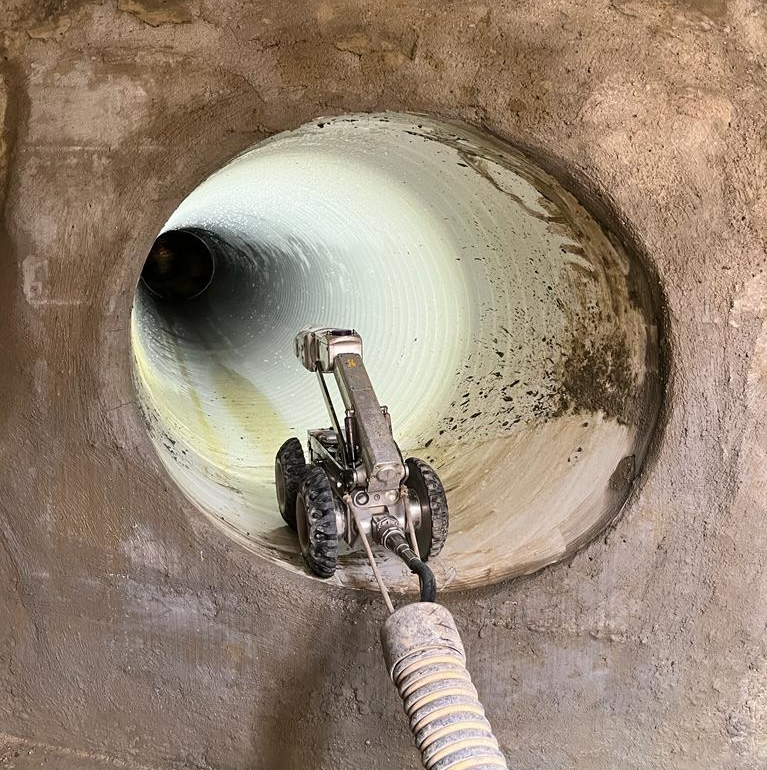
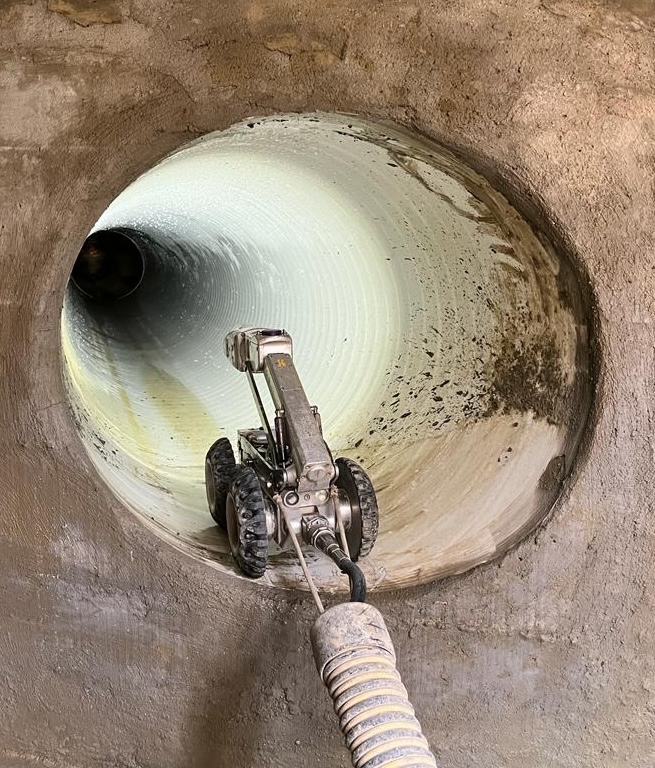
comentarios sept 3

diff --git a/templates/servicios/limpieza_redes.html b/templates/servicios/limpieza_redes.html
@@ -5,15 +5,15 @@
 {% block content %}
     <!-- Header section End -->
     <!-- main section End -->
-        <div class="inspection" style="background-image: url('static/img/general-limpiezaredes.png')">
+        <div class="inspection" style="background-image: url('static/img/general-limpiezaredes4.jpg')">
             <div class="container">
                 <div class="row">
                     <div class="col-md-7" style="padding-left: 10%;" id="limpieza-banner-text">
                         <div class="line" style="background: #2e3094;"></div>
-                        <h1><span style="color: #000;">LIMPIEZA DE TUBERÍAS </span><span style="color: #000;">MUNICIPALES, INDUSTRIALES Y COMERCIALES</span></h1>
+                        <h1><span style="color: #ffffff;">LIMPIEZA DE TUBERÍAS </span><span style="color: #ffffff;">MUNICIPALES, INDUSTRIALES Y COMERCIALES</span></h1>
                         <!-- <p style="color: #000;">En PACIFIC, nos dedicamos a la limpieza e inspección de redes subterráneas, utilizando tecnología avanzada y un equipo altamente calificado. Con más de 15 años de experiencia, ofrecemos servicios especializados para redes de alcantarillado, conexiones domiciliarias y redes internas en diversos sectores económicos, incluyendo redes públicas, industriales, comerciales y residenciales.</p> -->
                         <p></p>
-                        <a href="#see_more1" class="btn-azul" >VER MÁS</a>
+                        <a href="#see_more1" class="btn-azul" style="color: #ffffff; border-color: #ffffff;">VER MÁS</a>
                     </div>
                 </div>
             </div>
@@ -39,18 +39,17 @@
             Redes Subterráneas en Latinoamérica
         </h2>
         <p class="txt-left txt-box">
-            Nuestros servicios incluyen la limpieza y mantenimiento de redes, 
-            así como la inspección y diagnóstico mediante cámaras CCTV. 
-            Realizamos la limpieza de pozos sépticos, trampas de grasa y canales, 
-            adaptándonos a las necesidades específicas de cada proyecto. Nuestro 
-            portafolio incluye equipos de última tecnología como:
+            Realizamos la limpieza de redes,  de pozos sépticos, trampas de grasa, 
+            canales y tuberías industriales, adaptándonos a las necesidades específicas 
+            de cada proyecto. Nuestro portafolio incluye equipos de última tecnología como:
         </p>
 
         <ul class="txt-left txt-box">
             <li>Equipos combinados de presión-succión MARCA CAMEL</li>
-            <li>Cámaras de inspección CCTV</li>
-            <li>Lavado a presión con Jetter</li>
-            <li>Máquinas destaponadoras eléctricas</li>
+            <li>Equipos de limpieza Mecánica como varilladoras o rotasondas</li>
+            <li>Equipos de Lavado a Presión</li>
+            <li>Cabrestantes</li>
+            <li>Limpieza Manual de grandes colectores con personal altamente calificado</li>
         </ul>
   
 
@@ -60,20 +59,19 @@
       <div class="col-md-6 pt-8 solid-text info-box">
         
         <p class="txt-left txt-box">
-            Atendemos redes desde 2” en adelante, asegurando una limpieza 
-            eficiente y exhaustiva. Utilizamos cámaras CCTV para inspeccionar y 
-            diagnosticar el estado de las redes de alcantarillado, permitiendo una 
-            evaluación precisa de su condición y la identificación de problemas antes 
-            de que se conviertan en mayores inconvenientes.
+            Atendemos redes desde 2” en adelante, asegurando una limpieza eficiente y 
+            de gran detalle. Utilizamos equipos robotizados CCTV para inspeccionar y 
+            diagnosticar el estado de las redes de alcantarillado, permitiendo una evaluación 
+            precisa de su condición e identificación preventiva de problemas.
         </p>
         
         <p class="txt-left txt-box">
-            Ofrecemos nuestros servicios tanto al sector público como al privado, 
-            incluyendo el mantenimiento y la inspección con CCTV en diferentes municipios 
-            de Colombia, así como en industrias, comercios, construcciones y entidades 
-            de salud. Con nuestro enfoque integral y tecnología de punta, garantizamos la 
-            eficiencia y seguridad de las redes subterráneas, ayudando a prevenir 
-            problemas y optimizar el funcionamiento de los sistemas de alcantarillado.
+            Ofrecemos nuestros servicios tanto al sector público como al privado, incluyendo 
+            el mantenimiento y la inspección/diagnostico en diferentes municipios de Colombia, 
+            así como en industrias, comercios, construcciones y entidades de salud. Con nuestro 
+            enfoque integral y tecnología de punta, garantizamos la eficiencia y seguridad de las 
+            redes subterráneas, ayudando a prevenir problemas y optimizar el funcionamiento de los 
+            sistemas de alcantarillado.
         </p>  
         
         <h3 class="txt-left txt-bold">

diff --git a/templates/servicios/diseno.html b/templates/servicios/diseno.html
@@ -5,7 +5,7 @@
 {% block content %}
     <!-- Header section End -->
     <!-- main section End -->
-        <div class="inspection" style="background-image: url('static/img/general-diseno.png')">
+        <div class="inspection" style="background-image: url('static/img/general-diseno2.jpg')">
             <div class="container">
                 <div class="row">
                     <div class="col-md-7" style="padding-left: 10%;">
@@ -40,18 +40,14 @@
             De Planes De Gestión
         </h2>
         <p class="txt-left txt-box">
-            Los activos subterráneos son esenciales pero a menudo descuidados, 
-            expuestos a riesgos constantes debido a su ubicación oculta. 
-            En Pacific, comprendemos la importancia de evaluar y gestionar 
-            adecuadamente estos activos. Contamos con la tecnología de 
-            vanguardia y la experiencia necesaria para valorar y analizar 
-            las redes según estándares internacionales. Nuestros profesionales 
-            certificados por NASSCO garantizan evaluaciones precisas y 
-            recomiendan planes de acción fundamentados en análisis de riesgos 
-            rigurosos. Dedicamos tiempo y recursos a la elaboración de 
-            modelos de gestión que permiten una toma de decisiones informada 
-            y una asignación eficiente de recursos para proyectos de 
-            mantenimiento y reposición de redes.
+            Los activos subterráneos son esenciales, pero a menudo descuidados, 
+            expuestos a riesgos constantes debido a su ubicación oculta. En Pacific, 
+            comprendemos la importancia de evaluar y gestionar adecuadamente estos activos. 
+            Comprendemos la importancia de plantear soluciones y diseños para renovar, expandir 
+            y rehabilitar las los sistemas de acueducto y alcantarillado. Contamos con un 
+            experimentado equipo de consultoría y diseño que estudia cada situación y plantea 
+            adecuada y minuciosamente cada posible solución teniendo como base el menor impacto 
+            social, comercial y ambiental.
         </p>
         <h3 class="txt-left txt-bold">
           <a href="#see_more2" class="btn-small"
@@ -64,47 +60,6 @@
     
     <div class="row justy-content">
       <section id="see_more2"></section>
-      <div class="col-md-6 pt-8 solid-text info-box">
-        <h2 class="txt-left txt-bold txt-title">
-            Transformando La Información
-        </h2>
-        <h2 class="txt-left txt-title">
-             En Acción
-        </h2>
-        <h4 class="txt-left txt-box">
-            La falta de planos actualizados y la correcta alineación de 
-            infraestructuras subterráneas son desafíos comunes. En Pacific, 
-            abordamos estas deficiencias con soluciones integrales. Mediante 
-            tecnologías avanzadas y un equipo altamente capacitado, 
-            actualizamos y geo-referenciamos activos, trasladando esta 
-            información a Sistemas de Información Geográfica para una gestión 
-            efectiva. Nuestra experiencia nos permite corregir falencias y 
-            mejorar la precisión de los datos, facilitando así la toma de 
-            decisiones informadas.
-        </h4>
-        <h3 class="txt-left txt-bold txt-title">
-          <a href="#see_more3" class="btn-small"
-            >VER MÁS</a
-          >
-        </h3>
-      </div>
-      <div class="col-md-6 solid-color">
-        <img
-          src="{{ url_for('static', filename='img/diseno/diseno6.jpg') }}"
-          class="responsive-image"
-        />
-      </div>
-    </div>
-    
-    
-    <div class="row justy-content">
-      <section id="see_more3"></section>
-      <div class="col-md-6 solid-color">
-        <img
-          src="{{ url_for('static', filename='img/diseno/diseno7.jpg') }}"
-          class="responsive-image"
-        />
-      </div>
       <div class="col-md-6 pt-8 solid-text info-box">
         <h2 class="txt-left txt-bold txt-title">
             Experiencia Y Tecnología 
@@ -123,11 +78,17 @@
             subterráneos, maximizando su vida útil y optimizando recursos 
             financieros y no financieros.
         </h4>
-        <h3 class="txt-left txt-title">
-          <a href="#see_more4" class="btn-small"
+        <h3 class="txt-left txt-bold txt-title">
+          <a href="#see_more3" class="btn-small"
             >VER MÁS</a
           >
         </h3>
+      </div>
+      <div class="col-md-6 solid-color">
+        <img
+          src="{{ url_for('static', filename='img/diseno/diseno3.jpg') }}"
+          class="responsive-image"
+        />
       </div>
     </div>
   </div>
@@ -142,7 +103,7 @@
   </div>
     
     
-<section id="see_more4"></section>
+<section id="see_more3"></section>
     <!-- nuevo carrusel -->
     <div class="carousel-new">
         <img src="{{ url_for('static', filename='img/diseno/diseno1.jpg') }}" alt="Imagen 1" class="active">

diff --git a/templates/servicios/fugas.html b/templates/servicios/fugas.html
@@ -5,7 +5,7 @@
 {% block content %}
     <!-- Header section End -->
     <!-- main section End -->
-        <div class="inspection" style="background-image: url('static/img/general-fugas.png')">
+        <div class="inspection" style="background-image: url('static/img/general-fugas2.jpg')">
             <div class="container">
                 <div class="row">
                     <div class="col-md-7" style="padding-left: 10%;">
@@ -41,18 +41,13 @@
             con Tecnología de Vanguardia
         </h2>
         <p class="txt-left txt-box">
-            Empleamos métodos acústicos, visuales y ultrasónicos para identificar 
-            problemas dentro de las redes de acueducto sin necesidad de interrumpir 
-            la operación del servicio. Estos métodos nos permiten realizar 
-            inspecciones detalladas y diagnósticos precisos que garantizan una 
-            evaluación precisa de la condición de las redes y la identificación de 
-            problemas antes de que se conviertan en mayores inconvenientes.
+            Empleamos métodos acústicos, visuales y ultrasónicos para identificar fugas 
+            y fraudes dentro de las redes de acueducto sin necesidad de interrumpir la 
+            el servicio. Estos métodos nos permiten realizar inspecciones detalladas y 
+            diagnósticos precisos que garantizan una evaluación precisa de la condición 
+            de las redes y la identificación temprana de problemas.
         </p>
-        <!-- <h3 class="txt-left txt-bold">
-          <a href="{{ url_for('servicios_equipos') }}" class="btn-small"
-            >VER MÁS</a
-          >
-        </h3> -->
+        
       </div>
     </div>
     <div class="row justy-content">
@@ -61,14 +56,11 @@
             Soluciones de CCTV y Ultrasonido
         </h2>
         <p class="txt-left txt-box">
-            Utilizamos cámaras de inspección CCTV para una visualización interna 
-            detallada de las tuberías, permitiendo detectar fugas, fraudes, bloqueos, 
-            y otras condiciones adversas. Además, nuestros sistemas de escaneo óptico 
-            y ultrasonido fortalecen nuestra capacidad de inspección y análisis estructural, 
-            asegurando que todas las evaluaciones se realicen con la mayor precisión posible. 
-            Ofrecemos estos servicios tanto al sector público como al privado, 
-            ayudando a prevenir problemas y optimizar el funcionamiento de los 
-            sistemas de alcantarillado y acueducto en diferentes municipios de Colombia.
+            Nuestros sistemas de escaneo óptico y ultrasonico fortalecen nuestra capacidad de 
+            inspección y análisis estructural, asegurando que todas las evaluaciones se realicen 
+            con la mayor precisión posible. Ofrecemos estos servicios tanto al sector público como 
+            al privado, ayudando a prevenir problemas y optimizar el funcionamiento de los sistemas 
+            de acueducto en diferentes municipios de Colombia.
         </p>
         <h3 class="txt-left txt-bold txt-title">
           <a href="#see_more2" class="btn-small"

diff --git a/templates/servicios/catastro.html b/templates/servicios/catastro.html
@@ -31,24 +31,21 @@
     <div class="row justy-content">
       <div class="col-md-6 solid-color">
         <img
-          src="{{ url_for('static', filename='img/catastro/catastro6.jpg') }}"
+          src="{{ url_for('static', filename='img/catastro/catastro7.jpg') }}"
           class="responsive-image"
         />
       </div>
       <div class="col-md-6 pt-8 solid-text info-box">
         <h2 class="txt-left txt-bold txt-title">
-            Detección Precisa de Fugas
+            Soluciones Topográficas y Catastrales
         </h2>
         <h2 class="txt-left txt-title">
             con Tecnología de Vanguardia
         </h2>
         <p class="txt-left txt-box">
-            Empleamos métodos acústicos, visuales y ultrasónicos para identificar 
-            problemas dentro de las redes de acueducto sin necesidad de interrumpir 
-            la operación del servicio. Estos métodos nos permiten realizar 
-            inspecciones detalladas y diagnósticos precisos que garantizan una 
-            evaluación precisa de la condición de las redes y la identificación de 
-            problemas antes de que se conviertan en mayores inconvenientes.
+            Desarrollamos proyectos topográficos y de catastro con personal especializado 
+            y certificado usando tecnología de punta que nos permite escanear la tierra 
+            desde el aíre, en superficie y de manera subterránea.
         </p>
         <h3 class="txt-left txt-bold">
           <a href="#see_more2" class="btn-small"
@@ -57,33 +54,6 @@
         </h3>
       </div>
     </div>
-    <!-- <div class="row justy-content">
-      <div class="col-md-6 pt-8 solid-text info-box">
-        <h2 class="txt-left txt-bold txt-title">
-            Soluciones de CCTV y Ultrasonido
-        </h2>
-        <p class="txt-left txt-box">
-            Utilizamos cámaras de inspección CCTV para una visualización interna 
-            detallada de las tuberías, permitiendo detectar fugas, fraudes, bloqueos, 
-            y otras condiciones adversas. Además, nuestros sistemas de escaneo óptico 
-            y ultrasonido fortalecen nuestra capacidad de inspección y análisis estructural, 
-            asegurando que todas las evaluaciones se realicen con la mayor precisión posible. 
-            Ofrecemos estos servicios tanto al sector público como al privado, 
-            ayudando a prevenir problemas y optimizar el funcionamiento de los 
-            sistemas de alcantarillado y acueducto en diferentes municipios de Colombia.
-        </p>
-        <h3 class="txt-left txt-bold txt-title">
-          <a href="{{ url_for('servicios_equipos') }}" class="btn-small"
-            >VER MÁS</a>
-        </h3>
-      </div>
-      <div class="col-md-6 solid-color">
-        <img
-          src="{{ url_for('static', filename='img/diseno/diseno6.jpg') }}"
-          class="responsive-image"
-        />
-      </div>
-    </div> -->
     
   </div>
     

diff --git a/templates/servicios/suelos.html b/templates/servicios/suelos.html
@@ -36,18 +36,23 @@
       </div>
       <div class="col-md-6 pt-8 solid-text info-box">
         <h2 class="txt-left txt-bold txt-title">
-            Detección Precisa de Fugas
+          Asesoría Geotécnica Especializada 
         </h2>
         <h2 class="txt-left txt-title">
-            con Tecnología de Vanguardia
+          para Proyectos de Construcción
         </h2>
         <p class="txt-left txt-box">
-            Empleamos métodos acústicos, visuales y ultrasónicos para identificar 
-            problemas dentro de las redes de acueducto sin necesidad de interrumpir 
-            la operación del servicio. Estos métodos nos permiten realizar 
-            inspecciones detalladas y diagnósticos precisos que garantizan una 
-            evaluación precisa de la condición de las redes y la identificación de 
-            problemas antes de que se conviertan en mayores inconvenientes.
+            Nuestro equipo altamente capacitados se especializa en brindar asesoría 
+            geotécnica para proyectos de construcción en áreas como  instalación de 
+            nuevas redes de acueducto y alcantarillado, instalación parques solares, 
+            termoeléctricas, subestaciones eléctricas y edificaciones de diversas categorías.
+        </p>
+        
+        <p class="txt-left txt-box">
+          Estudiamos el comportamiento de suelos y rocas bajo diversas condiciones de manera 
+          que se pueda asegurar la estabilidad y seguridad de estructuras como nuevas construcciones, 
+          puentes o instalaciones y rehabilitaciones de tuberías. Ofrecemos  análisis precisos y 
+          detallados, esenciales para diseñar y construir proyectos.
         </p>
         <h3 class="txt-left txt-bold">
           <a href="#see_more2" class="btn-small"

diff --git a/templates/servicios/rehabilitacion_redes.html b/templates/servicios/rehabilitacion_redes.html
@@ -36,18 +36,13 @@
             Soluciones en Rehabilitación
         </h2>
         <h2 class="txt-left txt-title">
-            de Redes
+            de Redes y Manholes/Pozos
         </h2>
         <p class="txt-left txt-box">
-            Somos especialistas en servicios avanzados de rehabilitación 
-            integral y puntual de redes principales, domiciliarias y 
-            específicas, utilizando tecnologías No-Dig que minimizan 
-            las interrupciones en el servicio. Estas soluciones incluyen 
-            la inspección, análisis y diagnóstico de tuberías sin suspender 
-            su operación, garantizando una gestión óptima de los activos 
-            subterráneos. Empleamos tecnologías acústicas, visuales y 
-            ultrasónicas para identificar problemas dentro de las redes, 
-            permitiendo así una intervención precisa y efectiva.
+            Somos especialistas en servicios avanzados de rehabilitación integral 
+            y puntual de redes principales, domiciliarias y manholes. Mediante al uso 
+            de tecnologías sin zanja se minimizan las interrupciones en el servicio, 
+            se reducen los costos y se optimizan los tiempos de ejecución.
         </p>
         <!-- <h3 class="txt-left txt-bold">
           <a href="{{ url_for('servicios_equipos') }}" class="btn-small"

diff --git a/templates/servicios/mapeo.html b/templates/servicios/mapeo.html
@@ -47,11 +47,11 @@ content %}
       <h2 class="txt-bold txt-title">Conozca en Detalle</h2>
       <h5 class="txt-title"> su Infraestructura subterránea</h5>
       <p class="txt-box">
-        Utilizamos diversas tecnologías avanzadas para rehacer y actualizar
-        planos, inventario y condiciones de redes subterráneas en viviendas,
-        industrias, comercios y municipios. Esta información se integra en
-        sistemas de información geográfica SIG, lo que permite una gestión y
-        administración eficientes.
+        Utilizamos diversas tecnologías avanzadas para identificar al detalle 
+        la lozalizacion de la infraestructura subterránea. Realizamos el inventario 
+        y localizamos las redes subterráneas en viviendas, industrias, comercios 
+        y municipios. Esta información se integra con sistemas de información geográfica SIG, 
+        lo que permite una gestión y administración eficiente.
       </p>
       <h3 class="txt-left txt-bold">
         <a href="#see_more2" class="btn-small"

diff --git a/templates/base_infra.html b/templates/base_infra.html
@@ -58,7 +58,7 @@
                 </a>
                 <ul class="submenu megamenu__text">
 
-                  <div class="submenu__inner" style="background-color: red;">
+                  <div class="submenu__inner">
                     <a href="{{ url_for('servicios_inspeccion') }}" class="submenu__title">
                       Inspección y Diagnóstico
                       <!-- <i class="fa fa-chevron-right"></i> -->

diff --git a/static/css/style.css b/static/css/style.css
@@ -462,8 +462,8 @@ main {
   padding: 0 15px;
   text-align: justify;
 }
-/* 
-.submenu .submenu__inner:hover {
+
+/* .submenu .submenu__inner:hover {
   background-color: #2e3094;
 } */
 
